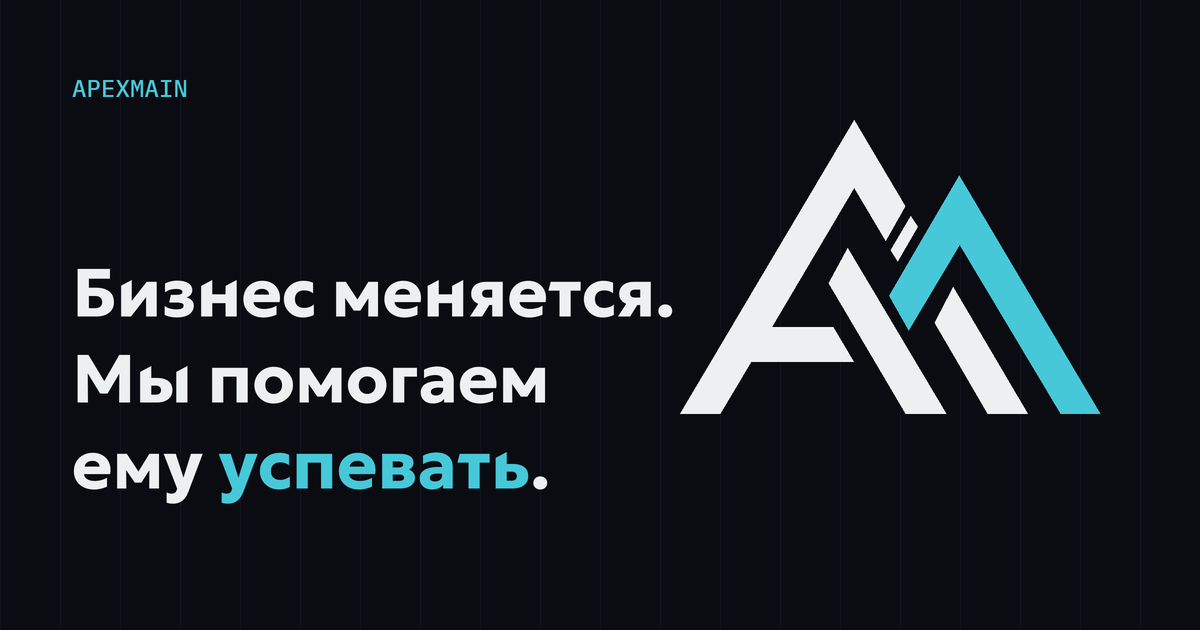
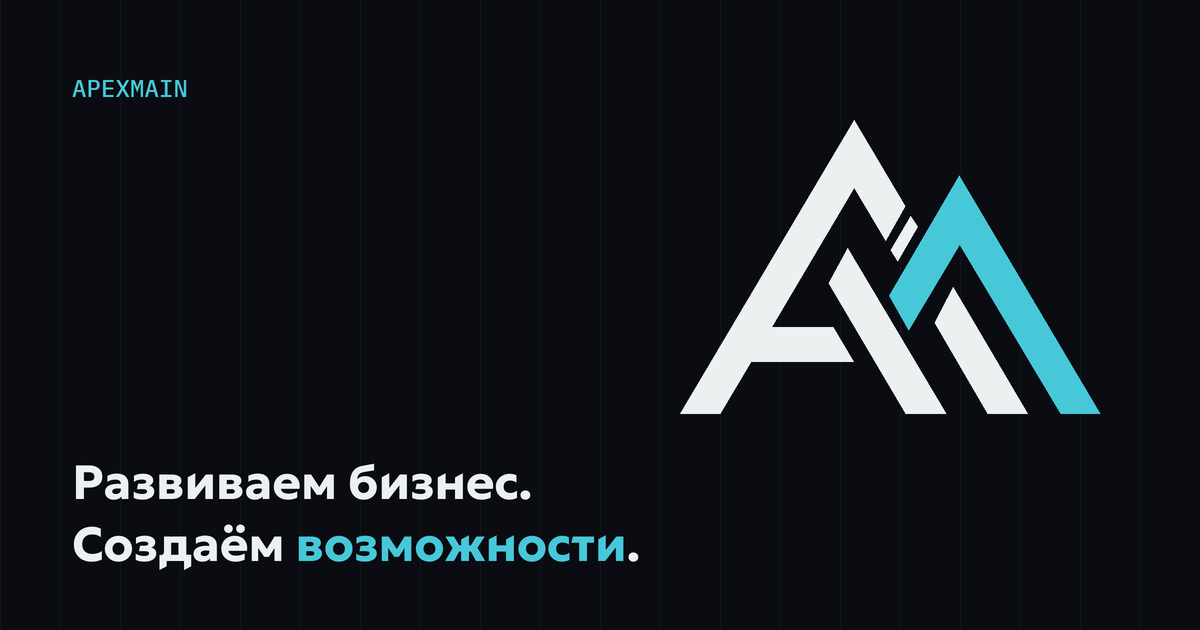
Hero: new headline and subheading (ru, kk, en), always two lines sized by the longer one; Open Graph images redrawn

Changed region(s): [[0.0617, 0.6937, 0.555, 0.9048], [0.0617, 0.4222, 0.5858, 0.5127], [0.0617, 0.5429, 0.4625, 0.6635]]

diff --git a/scripts/make-brand-assets.py b/scripts/make-brand-assets.py
@@ -51,11 +51,11 @@ icon(512, radius_ratio=0).convert("RGB").save(PUBLIC / "icon-512.png")
 icon(192, radius_ratio=0).convert("RGB").save(PUBLIC / "icon-192.png")
 icon(48).save(PUBLIC / "favicon.ico", sizes=[(16, 16), (32, 32), (48, 48)])
 
-# Open Graph 1200x630, one per locale: the hero headline in three lines (as on phones), *accent* in turquoise
+# Open Graph 1200x630, one per locale: the hero headline in two lines (as on the site), *accent* in turquoise
 OG = {
-    "ru": ("Бизнес меняется.", "Мы помогаем", "ему *успевать*."),
-    "kk": ("Бизнес өзгереді.", "Біз оған *үлгеруге*", "көмектесеміз."),
-    "en": ("Business changes.", "We help it", "*keep up*."),
+    "ru": ("Развиваем бизнес.", "Создаём *возможности*."),
+    "kk": ("Бизнесті дамытамыз.", "*Мүмкіндіктер* жасаймыз."),
+    "en": ("Growing businesses.", "Creating *opportunities*."),
 }
 display = ROOT / "fonts-src/Geologica.ttf"
 mono = ROOT / "fonts-src/PlexMono-Medium.ttf"
@@ -68,7 +68,8 @@ for loc, lines in OG.items():
     for gx in range(0, W, 60 * ss):
         d.line([(gx, 0), (gx, H)], fill="#11151c", width=ss)
     draw_mark(img, W - 520 * ss, 120 * ss, 420 * ss)
-    f = ImageFont.truetype(str(display), 68 * ss)
+    # 48 px, below the mark (it ends at y ≈ 415)
+    f = ImageFont.truetype(str(display), 48 * ss)
     try:
         axes = f.get_variation_axes()
         f.set_variation_by_axes([700 if a["name"] in (b"Weight", "Weight") else (100 if a["name"] in (b"Sharpness", "Sharpness") else a["default"]) for a in axes])
@@ -76,12 +77,12 @@ for loc, lines in OG.items():
         pass
     m = ImageFont.truetype(str(mono), 24 * ss)
     d.text((72 * ss, 72 * ss), "APEXMAIN", font=m, fill=C["apex"])
-    y = 250 * ss
+    y = 452 * ss
     for line in lines:
         x = 72 * ss
         for i, part in enumerate(line.split("*")):
             d.text((x, y), part, font=f, fill=C["apex"] if i % 2 else C["paper"])
             x += d.textlength(part, font=f)
-        y += 86 * ss
+        y += 62 * ss
     img.resize((1200, 630), Image.LANCZOS).save(PUBLIC / f"og-{loc}.png", optimize=True)
 print("ok")

diff --git a/docs/kk-review.md b/docs/kk-review.md
@@ -8,8 +8,8 @@
 |---|---|---|
 | `intro.chooseLanguage` | Выберите язык | Тілді таңдаңыз |
 | `hero.eyebrow` | IT-разработка • Маркетинг • Автоматизация | IT-әзірлеу • Маркетинг • Автоматтандыру |
-| `hero.titleLines` | Бизнес меняется. / Мы помогаем / ему *успевать*. | Бизнес өзгереді. / Біз оған *үлгеруге* / көмектесеміз. |
-| `hero.sub` | Соединяем бизнес-стратегию, технологии и маркетинг, чтобы компании могли быстрее развиваться и уверенно проходить изменения. | Компаниялар тезірек дамып, өзгерістерден сенімді өтуі үшін бизнес-стратегияны, технологияларды және маркетингті біріктіреміз. |
+| `hero.titleLines` (новый, 9.10.2026) | Развиваем бизнес. / Создаём *возможности*. | Бизнесті дамытамыз. / *Мүмкіндіктер* жасаймыз. |
+| `hero.sub` (новый, 9.10.2026) | Объединяем стратегию, технологии и маркетинг, чтобы привлекать больше клиентов, упрощать работу и открывать новые возможности для роста. | Көбірек клиент тарту, жұмысты жеңілдету және өсуге жаңа мүмкіндіктер ашу үшін стратегияны, технологияны және маркетингті біріктіреміз. |
 | `hero.ctaPrimary` | Получить первичный аудит | Алғашқы аудит алу |
 | `meta.description` | Соединяем бизнес-стратегию, технологии и маркетинг: сайты, бренд в digital, таргетинг и SEO, продажи и CRM, эквайринг. Для бизнеса в Алматы и по всему Казахстану. | Бизнес-стратегияны, технологияларды және маркетингті біріктіреміз: сайттар, digital-тағы бренд, таргетинг және SEO, сатылым және CRM, эквайринг. Алматы мен бүкіл Қазақстандағы бизнеске. |
 | `meta.servicesDescription` | Сайты, бренд в digital, таргетинг и SEO, продажи и CRM, подключение эквайринга. | Сайттар, digital-тағы бренд, таргетинг және SEO, сатылым және CRM, эквайрингті қосу. |
@@ -38,7 +38,7 @@
 | `rail.prev` | Назад | Артқа |
 | `rail.next` | Вперёд | Алға |
 
-В заголовке hero звёздочками отмечено слово, которое выделяется бирюзовым: *үлгеруге*.
+В заголовке hero звёздочками отмечено слово, которое выделяется бирюзовым: *Мүмкіндіктер* («возможности»). Заголовок всегда в две строки, вторая строка самая длинная — более длинный вариант уменьшит заголовок.
 
 ## Услуги (src/content/services/*.yaml)
 
